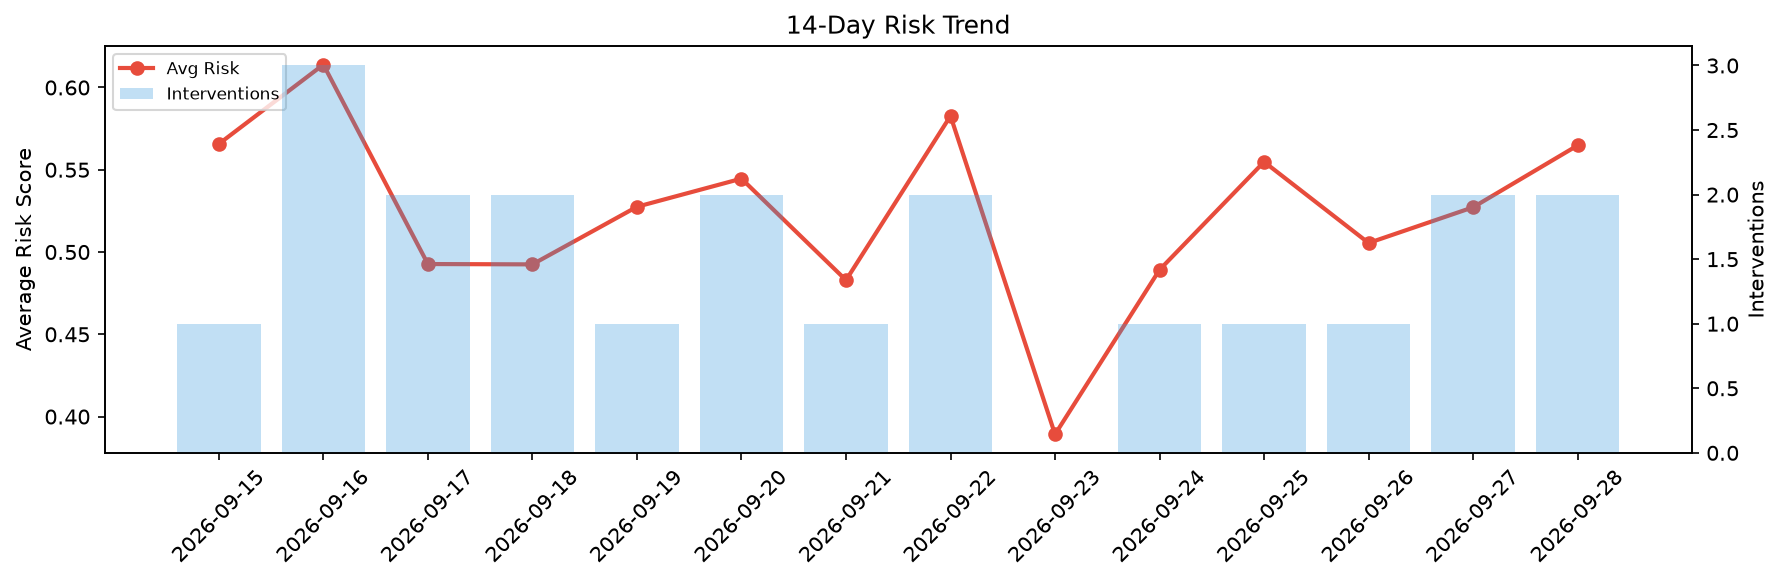
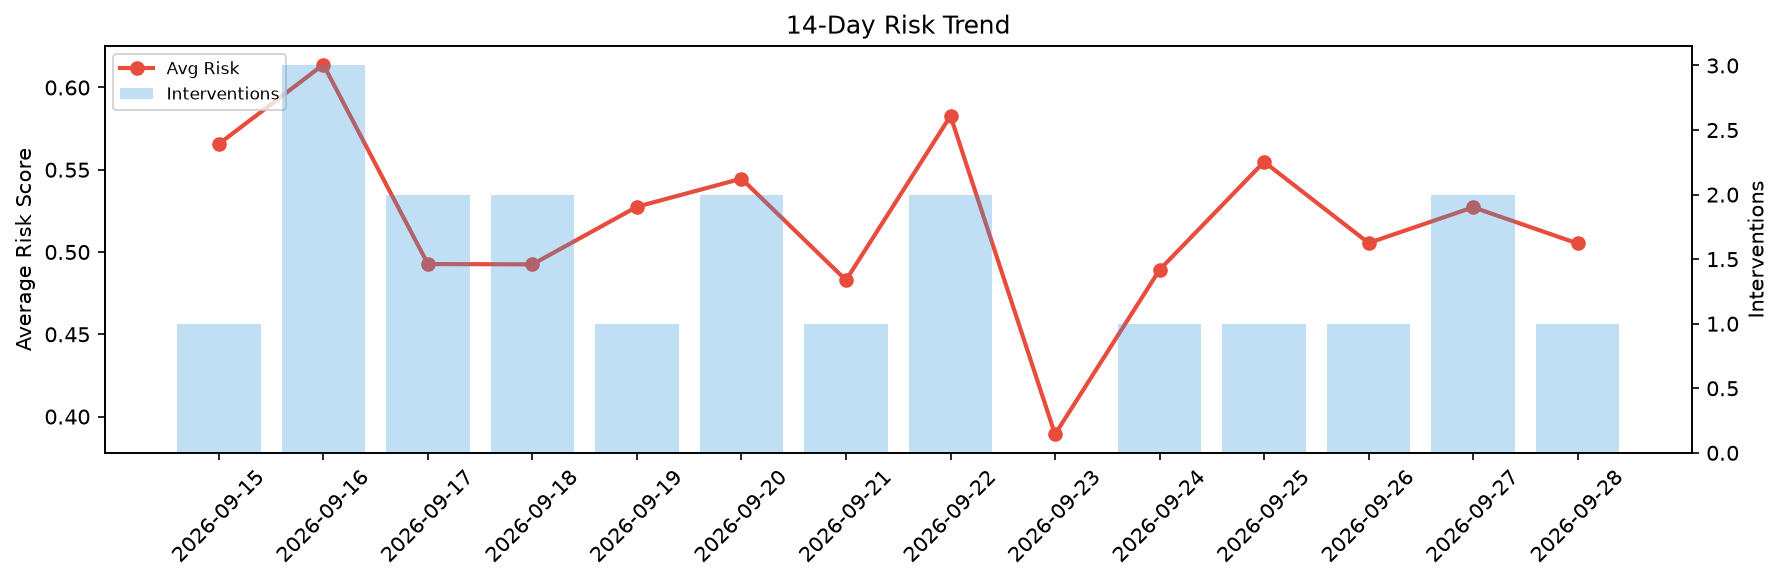
agent-improvement: daily cycle 2026-09-28T20:34

Changed region(s): [[0.8329, 0.2784, 0.9254, 0.5567], [0.8637, 0.2474, 0.8946, 0.2784]]

diff --git a/logs/2026-09-28.md b/logs/2026-09-28.md
@@ -1,6 +1,6 @@
 # Agent Improvement Report — 2026-09-28
 
-**Cycle ID:** `50986293` | **Avg Risk:** 0.5648 | **Interventions:** 2/4
+**Cycle ID:** `ebd3c33f` | **Avg Risk:** 0.5052 | **Interventions:** 1/4
 
 ![Dashboard](2026-09-28_dashboard.png)
 
@@ -10,18 +10,18 @@
 
 | Domain | Risk Score | Decision | Alerts |
 |--------|-----------|----------|--------|
-| code_review | 0.6208 | intervene | complexity, coverage |
-| incident_response | 0.5377 | monitor | severity |
-| data_pipeline | 0.7188 | intervene | volume_anomaly |
-| deployment | 0.3821 | monitor | rollback_rate |
+| code_review | 0.5069 | monitor | none |
+| incident_response | 0.6934 | intervene | severity, blast_radius |
+| data_pipeline | 0.4161 | monitor | none |
+| deployment | 0.4045 | monitor | none |
 
 ## Delta vs Yesterday
 
 | Domain | Today | Yesterday | Change |
 |--------|-------|-----------|--------|
-| code_review | 0.6208 | 0.6307 | 📉 -1.6% |
-| incident_response | 0.5377 | 0.4845 | 📈 11.0% |
-| data_pipeline | 0.7188 | 0.2993 | 📈 140.2% |
-| deployment | 0.3821 | 0.6945 | 📉 -45.0% |
+| code_review | 0.5069 | 0.6307 | 📉 -19.6% |
+| incident_response | 0.6934 | 0.4845 | 📈 43.1% |
+| data_pipeline | 0.4161 | 0.2993 | 📈 39.0% |
+| deployment | 0.4045 | 0.6945 | 📉 -41.8% |
 
 **Refinement:** `{'adjustment': 'maintain', 'trend': 'improving', 'window': 4}`
